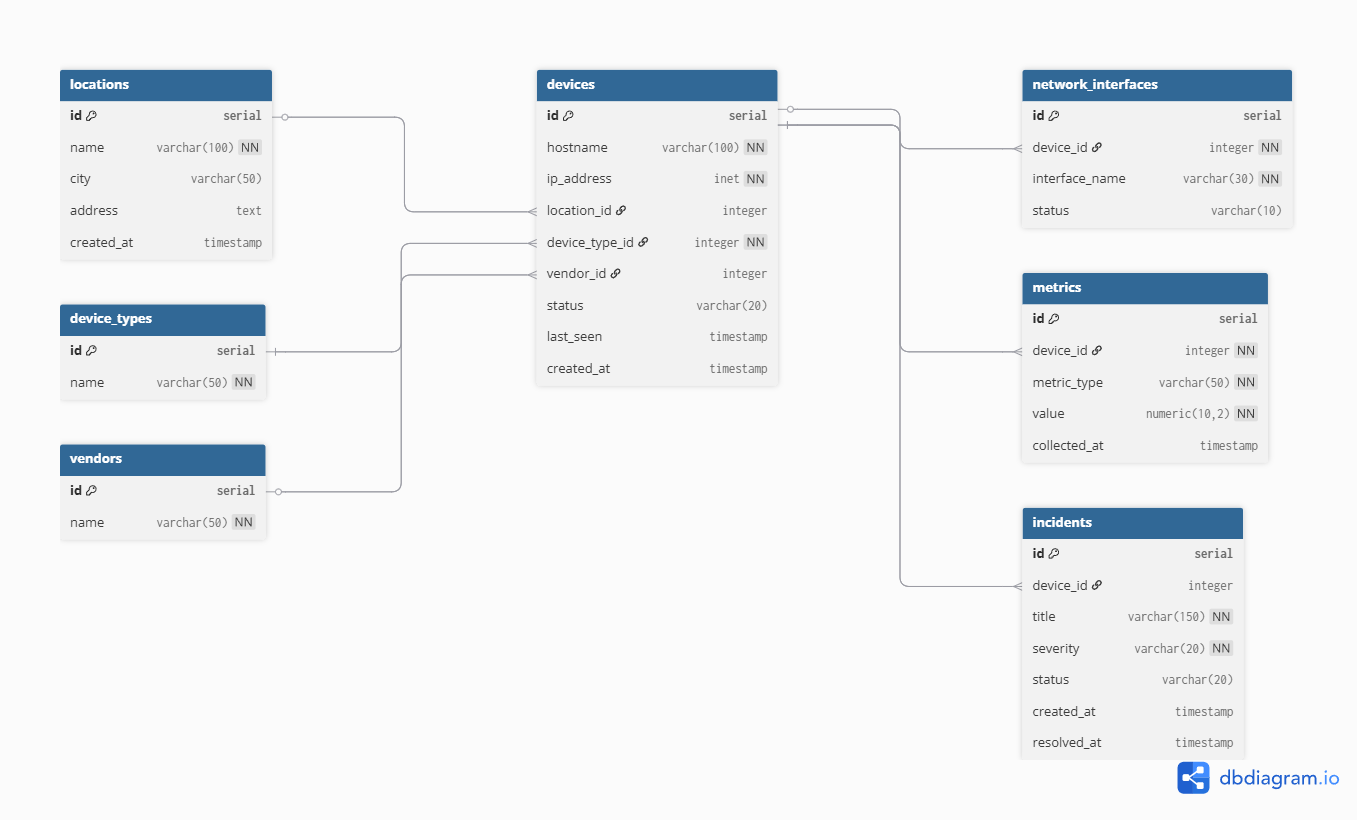
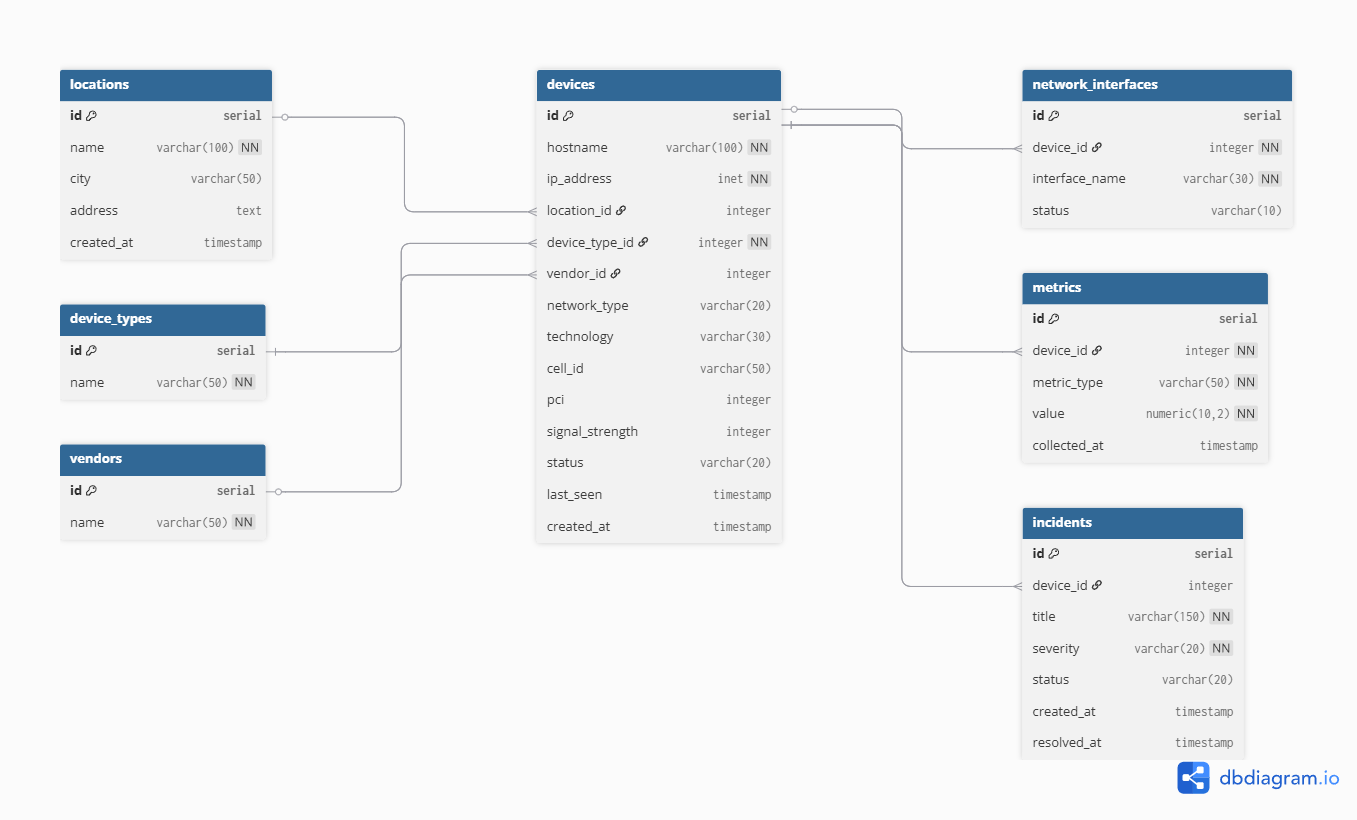
update BD

diff --git a/README.md b/README.md
@@ -1,5 +1,5 @@
 ## Описание предметной области
-**Предметная область работы** — система мониторинга телекоммуникационной сети (Network Monitoring System).
+**Предметная область работы** — система мониторинга беспроводной телекоммуникационной сети LTE (Network Monitoring System).
   
 - Система предназначена для автоматизированного сбора, хранения и анализа информации о состоянии сетевого оборудования, каналов связи и возникающих инцидентах. Она позволяет операторам связи и системным администраторам в режиме реального времени отслеживать работоспособность устройств, анализировать производительность сети и оперативно реагировать на возникающие проблемы.
   